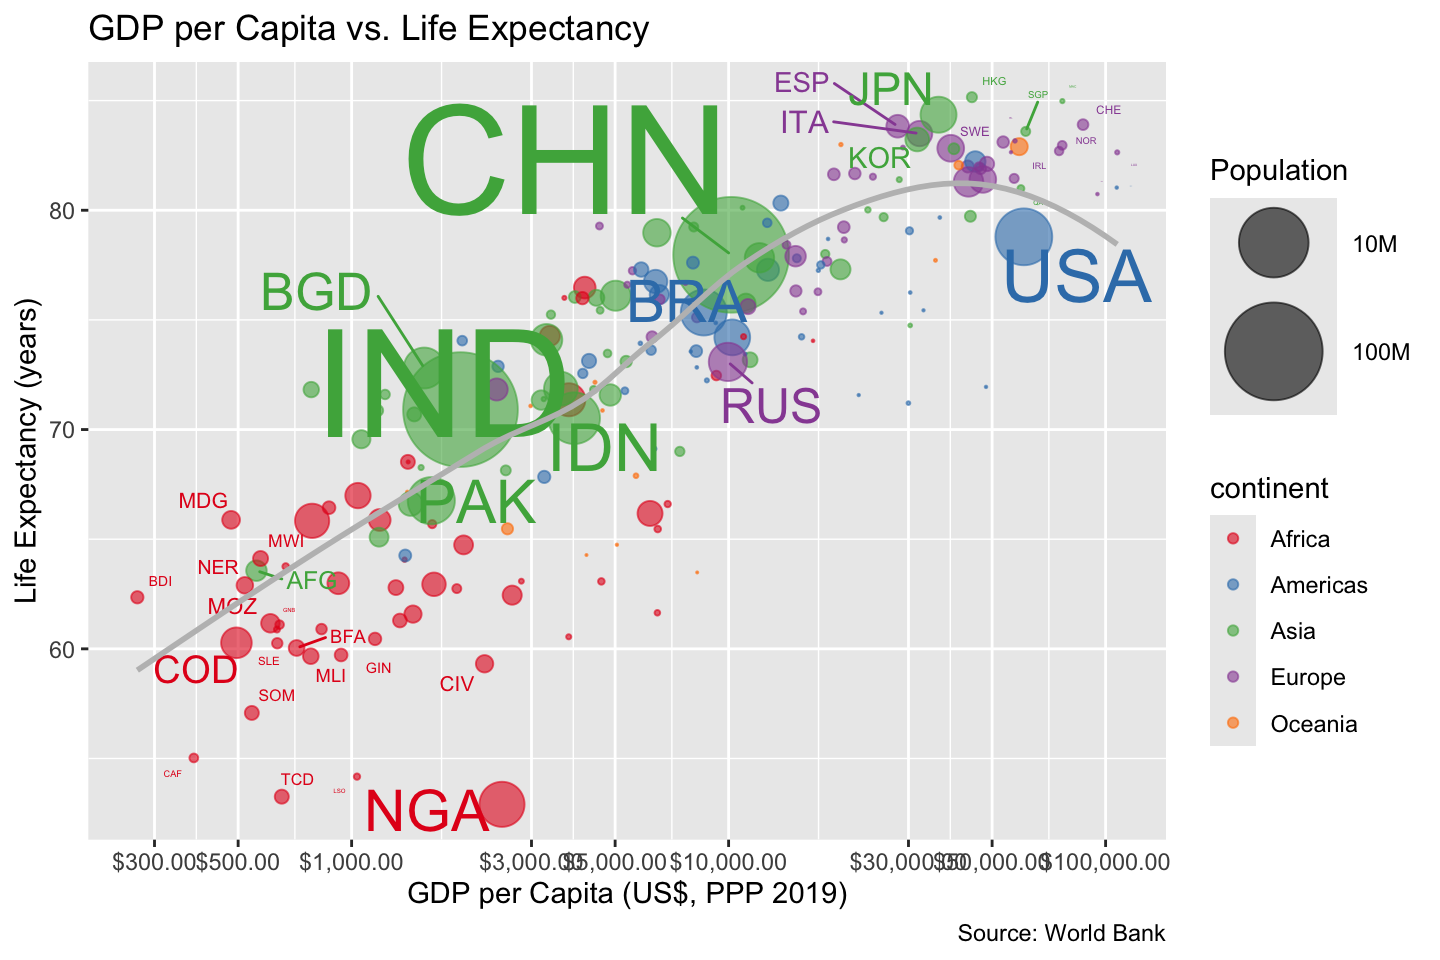
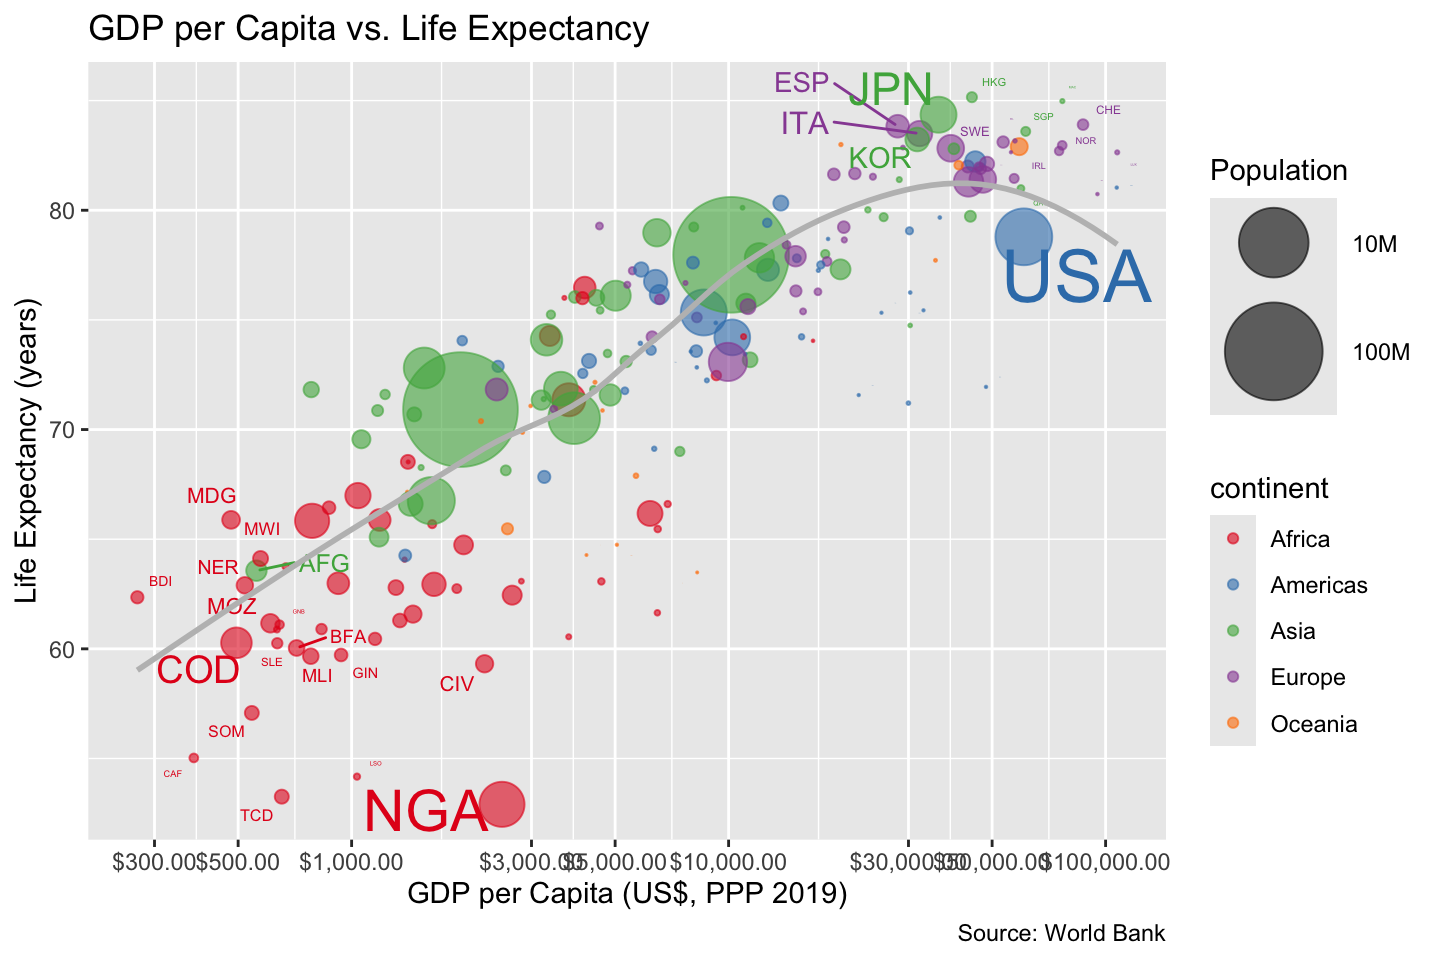
lab 05

diff --git a/Lab05/Lab05.html b/Lab05/Lab05.html
@@ -214,7 +214,7 @@ pre > code.sourceCode > span > a:first-child::before { text-decoration: underlin
 <span id="cb13-4"><a href="#cb13-4" aria-hidden="true" tabindex="-1"></a>    <span class="fu">rank</span>(gdp_per_cap) <span class="sc">&lt;=</span> <span class="dv">10</span> <span class="sc">~</span> code,</span>
 <span id="cb13-5"><a href="#cb13-5" aria-hidden="true" tabindex="-1"></a>    <span class="fu">rank</span>(<span class="fu">desc</span>(life_exp)) <span class="sc">&lt;=</span> <span class="dv">10</span> <span class="sc">~</span> code,</span>
 <span id="cb13-6"><a href="#cb13-6" aria-hidden="true" tabindex="-1"></a>    <span class="fu">rank</span>(life_exp) <span class="sc">&lt;=</span> <span class="dv">10</span> <span class="sc">~</span> code,</span>
-<span id="cb13-7"><a href="#cb13-7" aria-hidden="true" tabindex="-1"></a>    <span class="fu">rank</span>(<span class="fu">desc</span>(pop)) <span class="sc">&lt;=</span> <span class="dv">10</span> <span class="sc">~</span> code,</span>
+<span id="cb13-7"><a href="#cb13-7" aria-hidden="true" tabindex="-1"></a>    <span class="fu">rank</span>(pop) <span class="sc">&lt;=</span> <span class="dv">10</span> <span class="sc">~</span> code,</span>
 <span id="cb13-8"><a href="#cb13-8" aria-hidden="true" tabindex="-1"></a>    <span class="cn">TRUE</span> <span class="sc">~</span> <span class="st">""</span></span>
 <span id="cb13-9"><a href="#cb13-9" aria-hidden="true" tabindex="-1"></a>  ))</span>
 <span id="cb13-10"><a href="#cb13-10" aria-hidden="true" tabindex="-1"></a></span>
